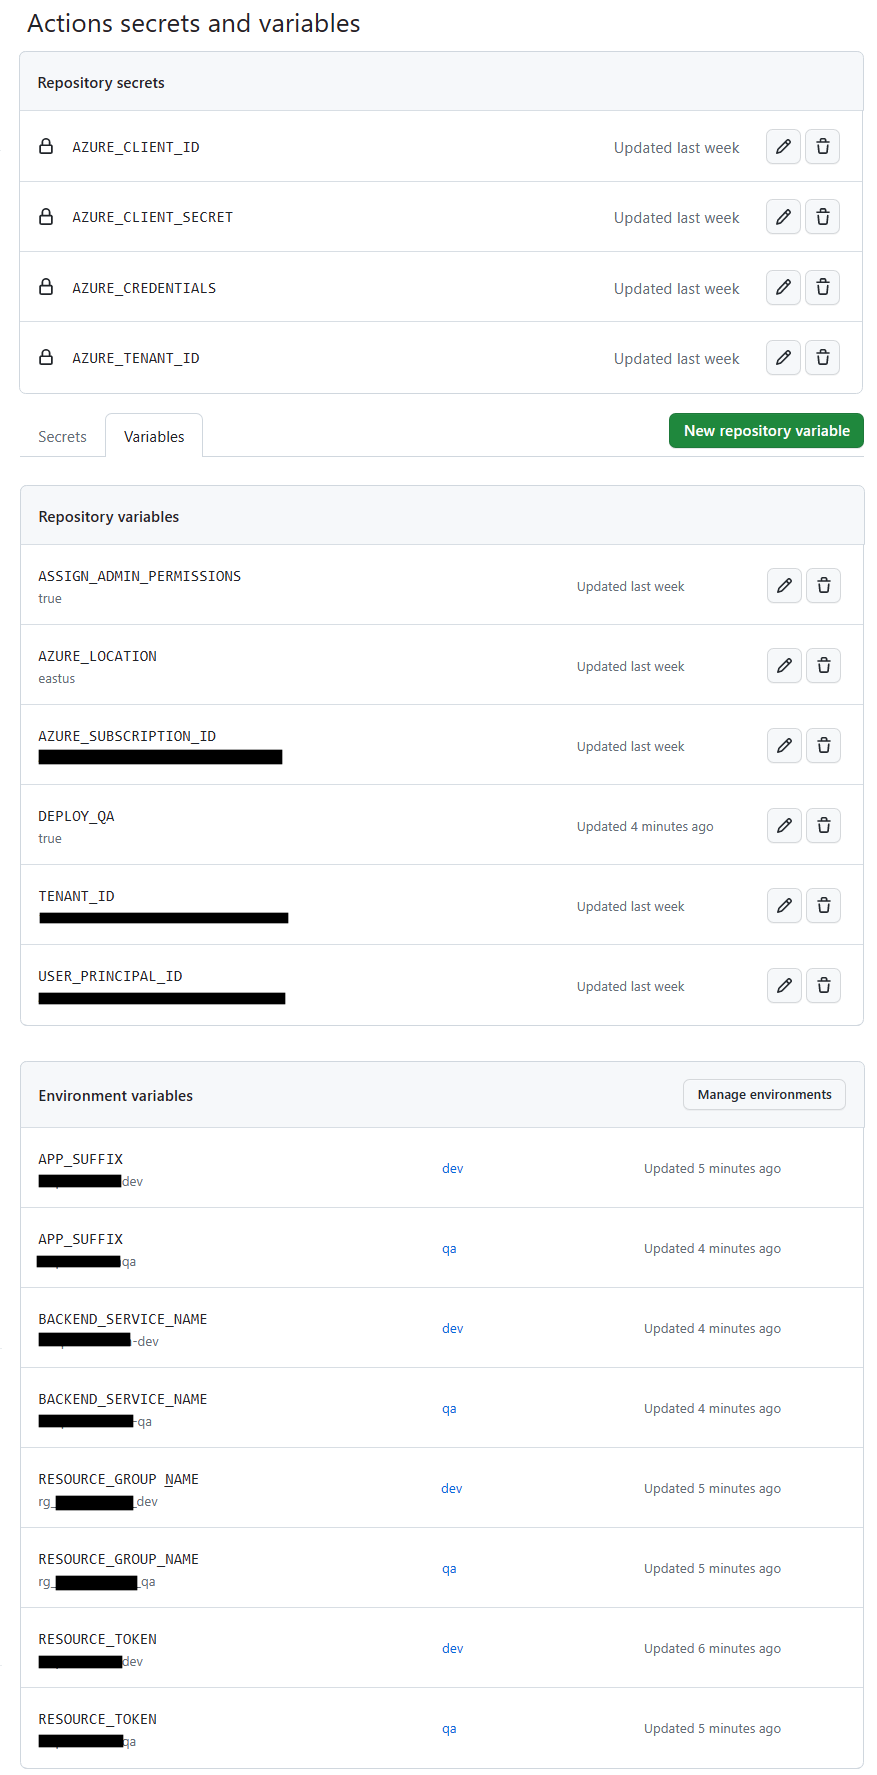
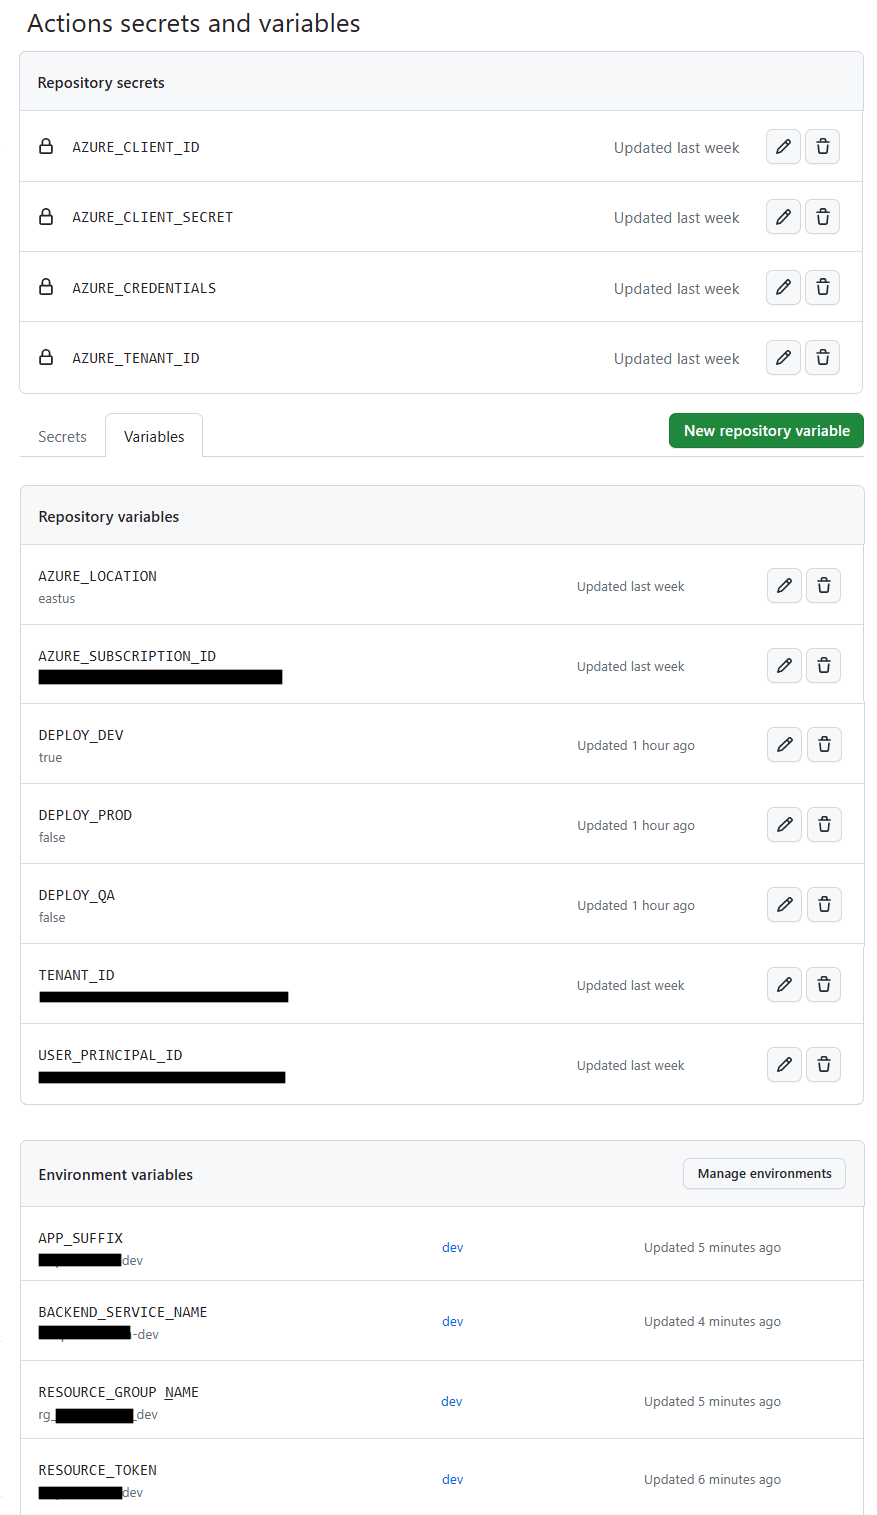
Remove extra admin permissions flag as it's not needed anymore

diff --git a/.github/workflows/readme.md b/.github/workflows/readme.md
@@ -66,23 +66,28 @@ gh variable set AZURE_SUBSCRIPTION_ID -b yourSubscriptionId
 gh variable set TENANT_ID -b servicePrincipalId-AD-TenantId
 gh variable set USER_PRINCIPAL_ID -b youruserguid
 
+gh variable set DEPLOY_DEV -b true
 gh variable set DEPLOY_QA -b false
-gh variable set ASSIGN_ADMIN_PERMISSIONS -b false
+gh variable set DEPLOY_PROD -b false
 
 gh variable set RESOURCE_GROUP_Name --env dev -b rg_<yourPreferredName>_dev
 gh variable set RESOURCE_GROUP_Name --env qa -b rg_<yourPreferredName>_qa
+gh variable set RESOURCE_GROUP_Name --env prod -b rg_<yourPreferredName>_prod
 
 # if you use the random token, the deploy step needs it to be able to deploy to the proper resource
 gh variable set RESOURCE_TOKEN --env dev -b <hashedkeydev>
 gh variable set RESOURCE_TOKEN --env qa -b <hashedkeyqa>
+gh variable set RESOURCE_TOKEN --env prod -b <hashedkeyprod>
 
 # if you want to use a specific suffix for your resources instead of a random token, specify this value
 gh variable set APP_SUFFIX --env dev -b xxxoaidev
 gh variable set APP_SUFFIX --env qa -b xxxoaiqa
+gh variable set APP_SUFFIX --env prod -b xxxoaiprod
 
 # if you want to use a specific name for the web application
 gh variable set BACKEND_SERVICE_NAME --env dev -b xxx-openai-search-dev
 gh variable set BACKEND_SERVICE_NAME --env qa -b xxx-openai-search-qa
+gh variable set BACKEND_SERVICE_NAME --env prod -b xxx-openai-search
 
 # optional - if you have existing OpenAI resource specify it here
 # note: you will have to update template-infra.yml to pass these variables in to main.bicep
@@ -99,12 +104,13 @@ gh variable set openAiSkuName -b S0
 gh variable set formRecognizerServiceName -b xxx
 gh variable set formRecognizerSkuName -b S0
 gh variable set searchServiceName -b xxx
-gh variable set searchServiceSkuName -b standard
 gh variable set storageAccountName -b xxx
 
 ```
 
-![Secrets Example](./Repo_Variables.png)
+### Example of Secrets/Variables
+
+![Secrets/Variables Example](./Repo_Variables.png)
 
 ---
 
